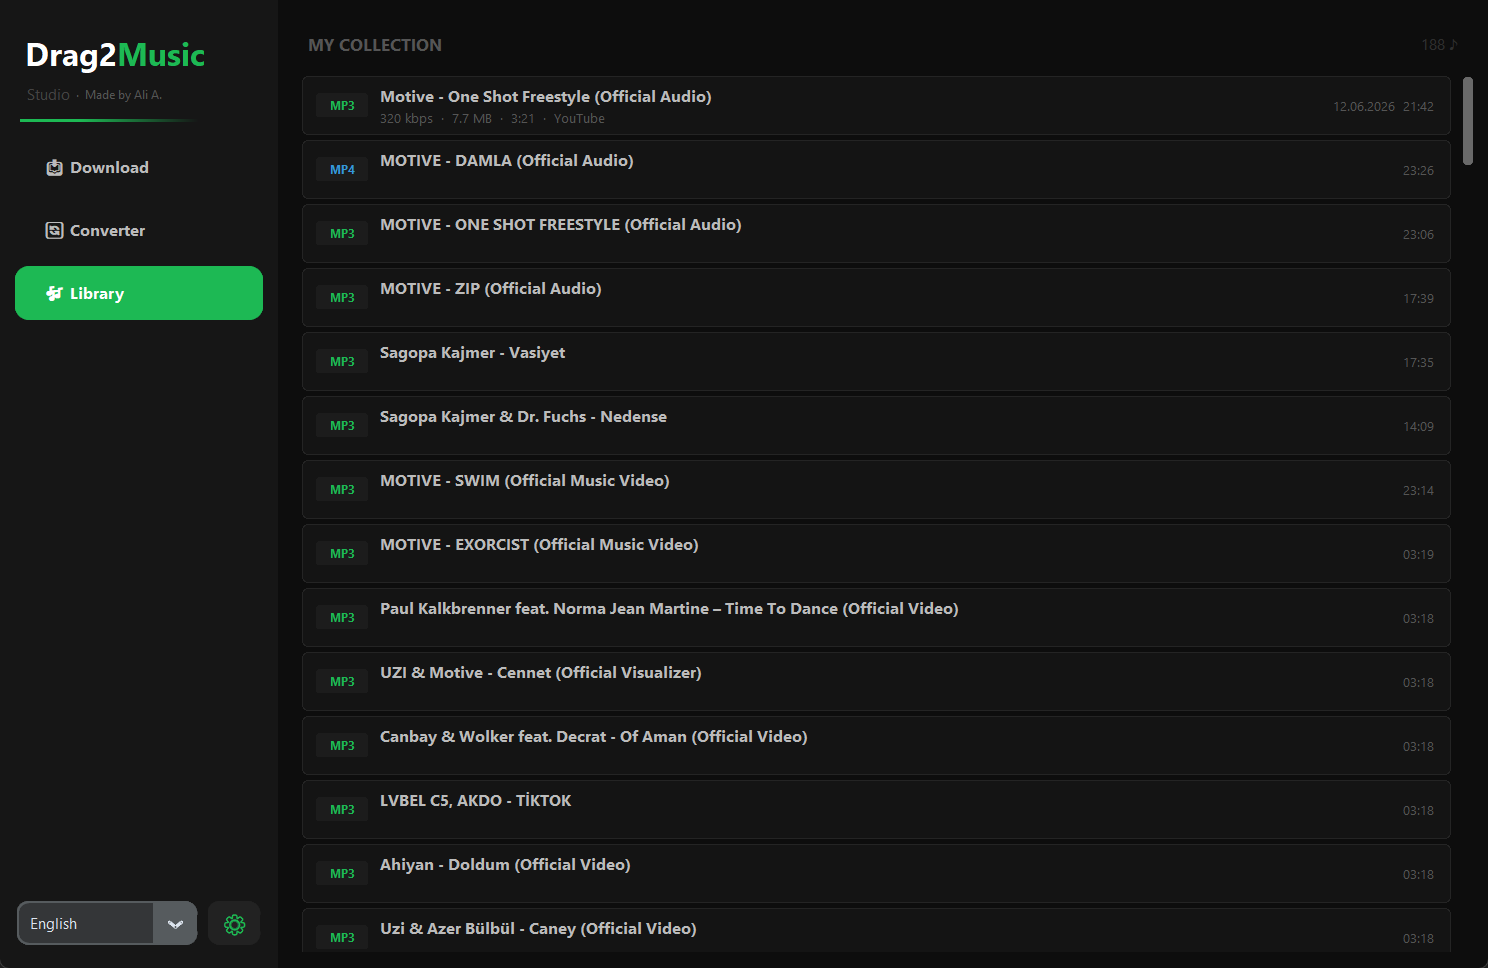
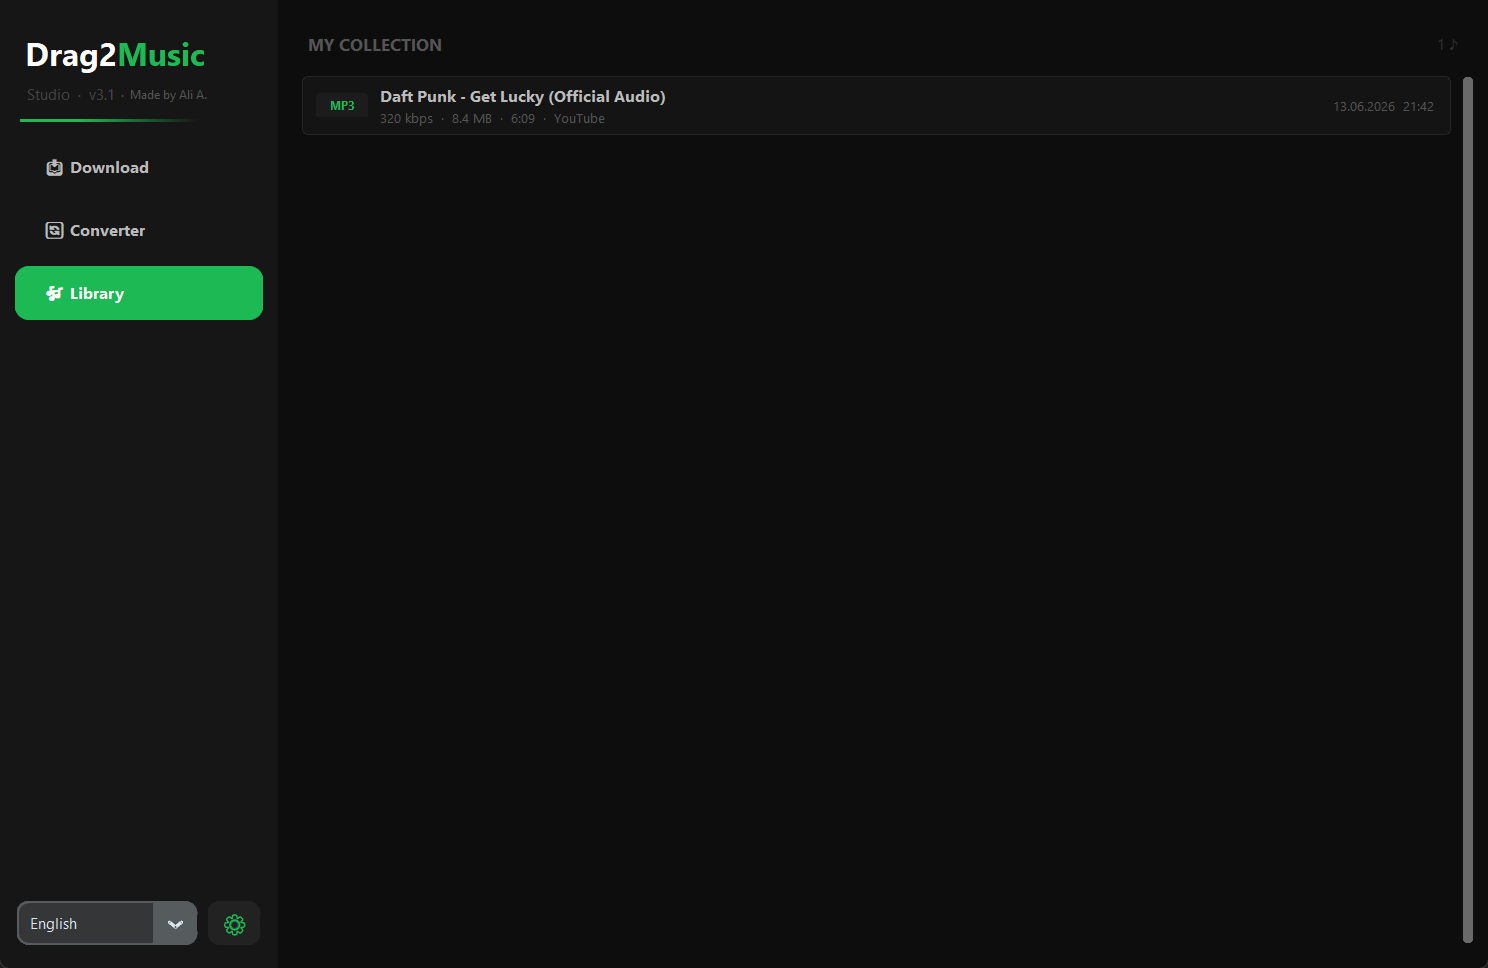
Bump to v3.1.0 and prepare release (installer, README, screenshots)
- Version 3.1.0 across the Windows installer, PyInstaller spec (macOS
  bundle), AppImage/.deb scripts and CI deb artifact names
- Rename the Inno Setup script tunefetch_setup.iss -> drag2music_setup.iss
  and update every reference (build script, CI, build docs)
- Expose APP_VERSION in core/constants and show "v3.1" in the sidebar
- Rewrite README with a "What's new in 3.1" section and refreshed
  screenshots (dark, light, library, converter)
- Shorten the window title to "Drag2Music"

No publish yet — staged locally for review.

diff --git a/core/ui_setup.py b/core/ui_setup.py
@@ -1,7 +1,7 @@
 import tkinter as tk
 import customtkinter as ctk
 from .translations import LANGUAGES
-from .constants import FORMAT_QUALITIES, C, FONT
+from .constants import FORMAT_QUALITIES, C, FONT, APP_VERSION
 
 try:
     from PIL import Image, ImageDraw
@@ -645,7 +645,8 @@ class UISetupMixin:
 
         sub = ctk.CTkFrame(sb, fg_color="transparent")
         sub.grid(row=1, column=0, sticky="ew", padx=22, pady=(0, 6))
-        ctk.CTkLabel(sub, text="Studio", font=(FONT, 12),
+        _short_ver = ".".join(APP_VERSION.split(".")[:2])   # 3.1.0 -> 3.1
+        ctk.CTkLabel(sub, text=f"Studio  ·  v{_short_ver}", font=(FONT, 12),
                      text_color=C["studio"]).pack(side="left")
         self.lbl_made_by = ctk.CTkLabel(
             sub, text="  ·  Made by Ali A.",

diff --git a/core/constants.py b/core/constants.py
@@ -1,5 +1,8 @@
 import sys
 
+# ── App version (keep in sync with installer scripts) ────────────────────────
+APP_VERSION = "3.1.0"
+
 # ── Platform-native UI font ──────────────────────────────────────────────────
 # Tk silently falls back to a default if the family is missing, so this is safe.
 if sys.platform == "win32":

diff --git a/main.py b/main.py
@@ -106,7 +106,7 @@ class Drag2Music(UISetupMixin, AnalyzerMixin, DownloaderMixin,
         # appears fully drawn instead of assembling piece by piece.
         self.withdraw()
 
-        self.title("Drag2Music: Infinity Studio")
+        self.title("Drag2Music")
 
         # Fit on small screens (e.g. 1366x768 laptops): scale the whole UI
         # down proportionally, then centre the window.

diff --git a/README.md b/README.md
@@ -1,10 +1,11 @@
 <div align="center">
 
-# Drag2Music: Infinity Studio
+# 🎵 Drag2Music: Infinity Studio
 
 **Search · Download · Convert · Lyrics — a complete music downloader for your desktop**
 
 [![Build](https://github.com/AliAli2155/Drag2Music/actions/workflows/build.yml/badge.svg)](https://github.com/AliAli2155/Drag2Music/actions/workflows/build.yml)
+[![Version](https://img.shields.io/badge/version-3.1.0-1DB954)](https://github.com/AliAli2155/Drag2Music/releases/latest)
 [![License](https://img.shields.io/badge/license-All%20Rights%20Reserved-red)](LICENSE)
 [![Python](https://img.shields.io/badge/python-3.11%2B-blue)](https://python.org)
 [![Platform](https://img.shields.io/badge/platform-Windows%20%7C%20macOS%20%7C%20Linux-lightgrey)](#download)
@@ -19,6 +20,10 @@
 |----------|---------|
 | ![Download page](docs/screenshots/download-dark.png) | ![Library page](docs/screenshots/library.png) |
 
+| Converter | Light theme |
+|-----------|-------------|
+| ![Converter page](docs/screenshots/converter.png) | ![Light theme](docs/screenshots/download-light.png) |
+
 ---
 
 ## Download
@@ -28,9 +33,20 @@
 | 🪟 Windows | [Drag2Music_Setup.exe](https://github.com/AliAli2155/Drag2Music/releases/latest/download/Drag2Music_Setup.exe) | One-click installer — no Python required |
 | 🍎 macOS | [Drag2Music.dmg](https://github.com/AliAli2155/Drag2Music/releases/latest/download/Drag2Music.dmg) | Drag & drop to Applications |
 | 🐧 Linux | [Drag2Music-x86_64.AppImage](https://github.com/AliAli2155/Drag2Music/releases/latest/download/Drag2Music-x86_64.AppImage) | Single file, runs on any distro |
-| 🐧 Linux | [drag2music_1.0.0_amd64.deb](https://github.com/AliAli2155/Drag2Music/releases/latest/download/drag2music_1.0.0_amd64.deb) | Debian / Ubuntu package |
+| 🐧 Linux | [drag2music_3.1.0_amd64.deb](https://github.com/AliAli2155/Drag2Music/releases/latest/download/drag2music_3.1.0_amd64.deb) | Debian / Ubuntu package |
 
 > **Fully self-contained** — Python runtime, ffmpeg, and all libraries are bundled inside. Nothing else to install.
+
+---
+
+## What's new in 3.1
+
+- 🎛️ **Redesigned studio UI** — sidebar navigation, a large album-art cover card, accent gradients and smooth animations.
+- 🖼️ **Title & artist on the cover** — baked into the artwork behind a gradient scrim, with perfectly symmetric cover / lyrics cards.
+- 🎨 **Theme-aware app icon** — the window icon switches automatically: white mark in Dark mode, black mark in Light mode.
+- 🎬 **Reliable MP4 downloads** — cover-art embedding fixed (mutagen) and smarter format selection.
+- 📚 **Richer library** — every download records format, quality, file size, duration, source and timestamp; renders instantly even with hundreds of entries.
+- ⚡ **Much faster startup** (~1s) and zero jank when resizing or maximizing.
 
 ---
 
@@ -38,18 +54,16 @@
 
 | | |
 |---|---|
-| 🎛️ **Modern studio UI** | Sidebar navigation, large album-art cover card, accent gradients, smooth animations, Dark / Light mode, fully resizable window |
 | 🔍 **Search & Analyze** | Search YouTube or SoundCloud by URL or keyword — loads title, artist, duration, high-res cover art, and an honest source-quality badge (real codec / bitrate) |
 | ⬇️ **Downloader** | Audio (MP3, AAC, OGG, WAV, FLAC, OPUS) or video (MP4, MKV, WEBM, AVI) with per-format quality selection, cover-art embedding, and live speed / progress |
 | 📋 **Playlist support** | Paste any YouTube playlist or SoundCloud set → queue every track in one click with a playlist progress bar |
-| 📚 **Rich library** | Every download is recorded with format, quality, file size, duration, source, and timestamp — instant rendering even with hundreds of entries |
+| 📚 **Rich library** | Full download history with format, quality, size, duration, source and timestamp |
 | 🔄 **File converter** | Convert local audio/video files to any format using the bundled ffmpeg |
 | 📜 **Auto lyrics** | Fetches lyrics automatically from multiple sources (syncedlyrics, lyrist, lyrics.ovh, lrclib) |
-| 🎚️ **DJ-grade audio** | Optional EBU R128 loudness normalization (−14 / −9 LUFS) with a fixed 44.1 kHz sample rate for consistent sets |
-| 🎨 **Themes** | 6 accent colors with animated transitions + gradient highlights that follow your accent |
+| 🎚️ **DJ-grade audio** | Optional EBU R128 loudness normalization (−14 / −9 LUFS) with a fixed 44.1 kHz sample rate |
+| 🎨 **Themes** | 6 accent colors with animated transitions + Dark / Light mode (theme-aware app icon) |
 | 🌐 **11 languages** | English, Türkçe, Español, Français, Deutsch, Português, Italiano, Русский, Ελληνικά, 日本語, 中文 — switch live, no restart |
 | 🔗 **Drag & drop** | Drop a URL straight onto the search bar |
-| ⚡ **Fast** | Cold start in about a second; deferred imports and canvas-based rendering keep the UI responsive at any window size |
 
 ---
 
@@ -97,23 +111,23 @@ python main.py
 
 ```
 Drag2Music/
-├── main.py                    Boot, ffmpeg path injection, app __init__
+├── main.py                    Boot, ffmpeg path injection, app __init__, themed icon
 ├── core/
 │   ├── ui_setup.py            Layout, sidebar, gradient widgets, canvas library list
-│   ├── analyzer.py            Video analysis, playlists, cover rendering, drag-drop
+│   ├── analyzer.py            Video analysis, playlists, cover + caption rendering, drag-drop
 │   ├── downloader.py          Download queue, progress hooks, yt-dlp options
 │   ├── settings.py            Settings popup, themes, languages, persistence
 │   ├── converter.py           Local file conversion (ffmpeg)
 │   ├── lyrics.py              Auto lyrics (syncedlyrics + 3 fallback APIs)
 │   ├── audio_quality.py       Source-quality badge, loudness normalization
-│   ├── constants.py           Colors, format maps, theme palette
+│   ├── constants.py           Colors, format maps, theme palette, APP_VERSION
 │   └── translations.py        11-language string table
-├── assets/                    App icons (ico / icns / png)
+├── assets/                    icon-white / icon-black (png/ico/icns) + static defaults
 ├── ffmpeg_bins/               Static ffmpeg binaries (downloaded at build time)
-├── build_scripts/             Platform build scripts + ffmpeg downloader
+├── build_scripts/             Platform build scripts + ffmpeg downloader + setup_assets
 ├── installer/                 Inno Setup / DMG / AppImage scripts
 ├── docs/screenshots/          README screenshots
-├── .github/workflows/         CI: builds all 3 platforms on every push
+├── .github/workflows/         CI: builds all 3 platforms; releases on a v* tag
 ├── drag2music.spec            PyInstaller spec
 └── requirements.txt
 ```
@@ -122,11 +136,10 @@ Drag2Music/
 
 ## Building
 
-All three platforms build automatically via **GitHub Actions** on every push.
-For local builds see [README_BUILD.md](README_BUILD.md).
+All three platforms build automatically via **GitHub Actions**. Pushing a `v*` tag (e.g. `v3.1.0`) builds the installers and publishes a GitHub Release. For local builds see [README_BUILD.md](README_BUILD.md).
 
 ```bat
-# Windows
+# Windows  (needs Inno Setup 6 for the installer)
 build_scripts\build_windows.bat
 
 # macOS

diff --git a/README_BUILD.md b/README_BUILD.md
@@ -53,7 +53,7 @@ The script:
 2. Generates icon assets (`build_scripts/setup_assets.py`)
 3. Downloads `ffmpeg-release-essentials.zip` for Windows → `ffmpeg_bins/windows/ffmpeg.exe`
 4. Runs `pyinstaller drag2music.spec --clean --noconfirm` → `dist/Drag2Music/`
-5. Runs `iscc installer\windows\tunefetch_setup.iss` → `dist/Drag2Music_Setup.exe`
+5. Runs `iscc installer\windows\drag2music_setup.iss` → `dist/Drag2Music_Setup.exe`
 
 ---
 
@@ -132,7 +132,7 @@ Drag2Music/
 │   ├── download_ffmpeg.py           Downloads static ffmpeg binaries
 │   └── setup_assets.py             Generates icon.ico / icon.png / icon.icns
 ├── installer/
-│   ├── windows/tunefetch_setup.iss  Inno Setup 6 installer script
+│   ├── windows/drag2music_setup.iss  Inno Setup 6 installer script
 │   ├── macos/create_dmg.sh          hdiutil DMG creator
 │   └── linux/create_appimage.sh     AppImage + .deb builder
 ├── drag2music.spec                  PyInstaller spec (all platforms)